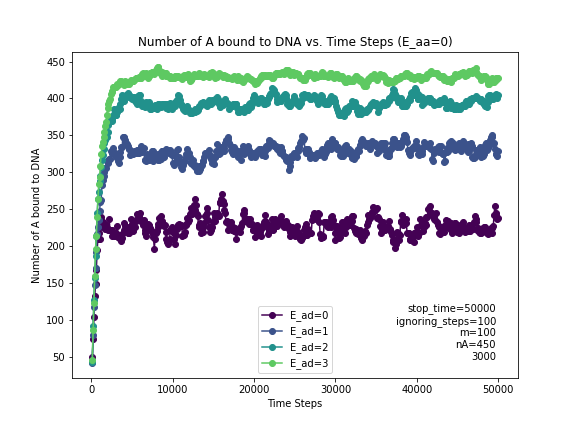
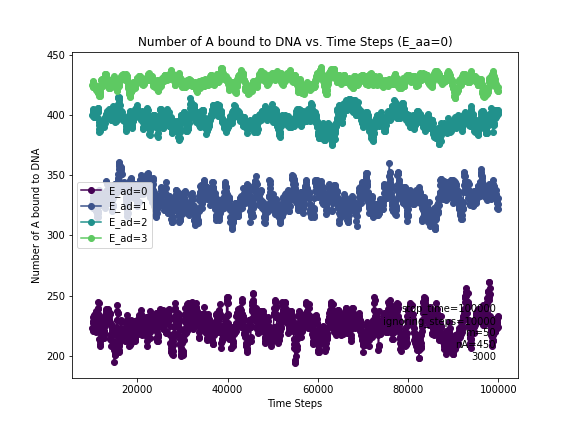
jobN3

diff --git a/MC_simulation_protein_A.py b/MC_simulation_protein_A.py
@@ -25,7 +25,7 @@ nB = 0 #number of Bs
 k = 0 #number of B interacting sites with A  
 
 #TIME PARAMETERS
-stop_time = 2000000
+stop_time = 100000#2000000
 ignoring_steps = 10000
 m = 50
 no_change_time = 500 #time from which I start computing mean and standard deviation #ricorda che in verità lo calcoli SAMPLING TIME 2000
